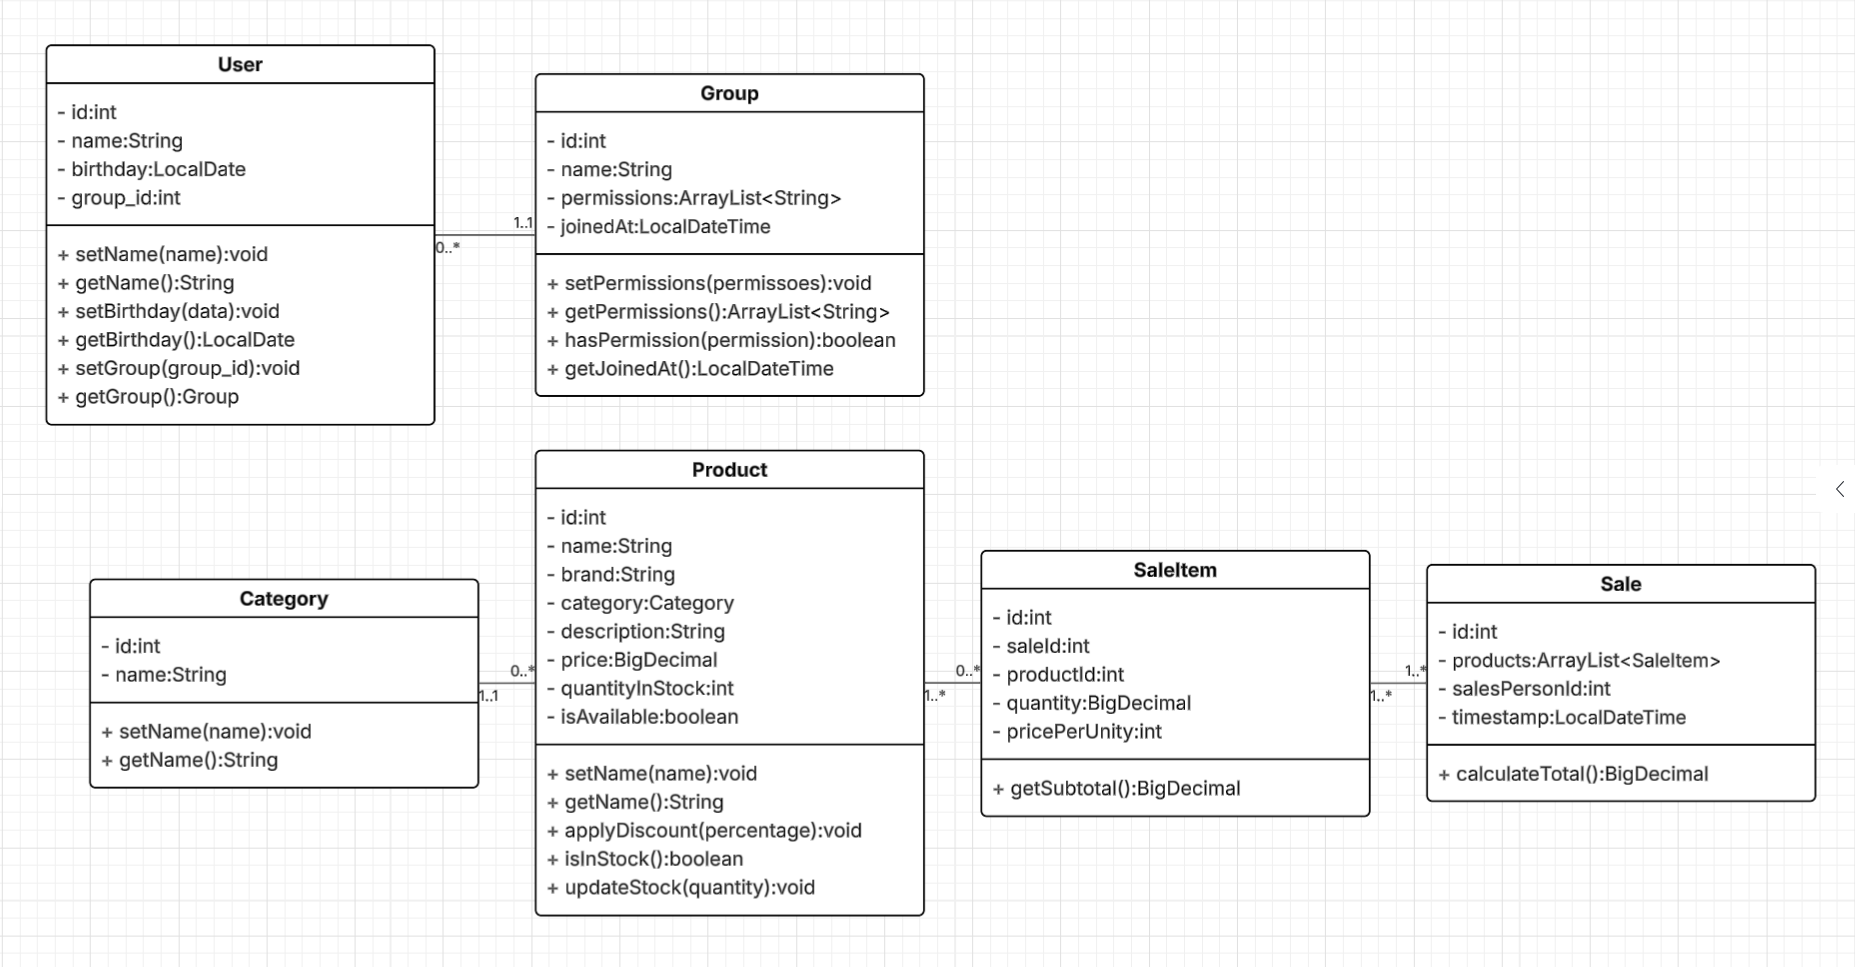
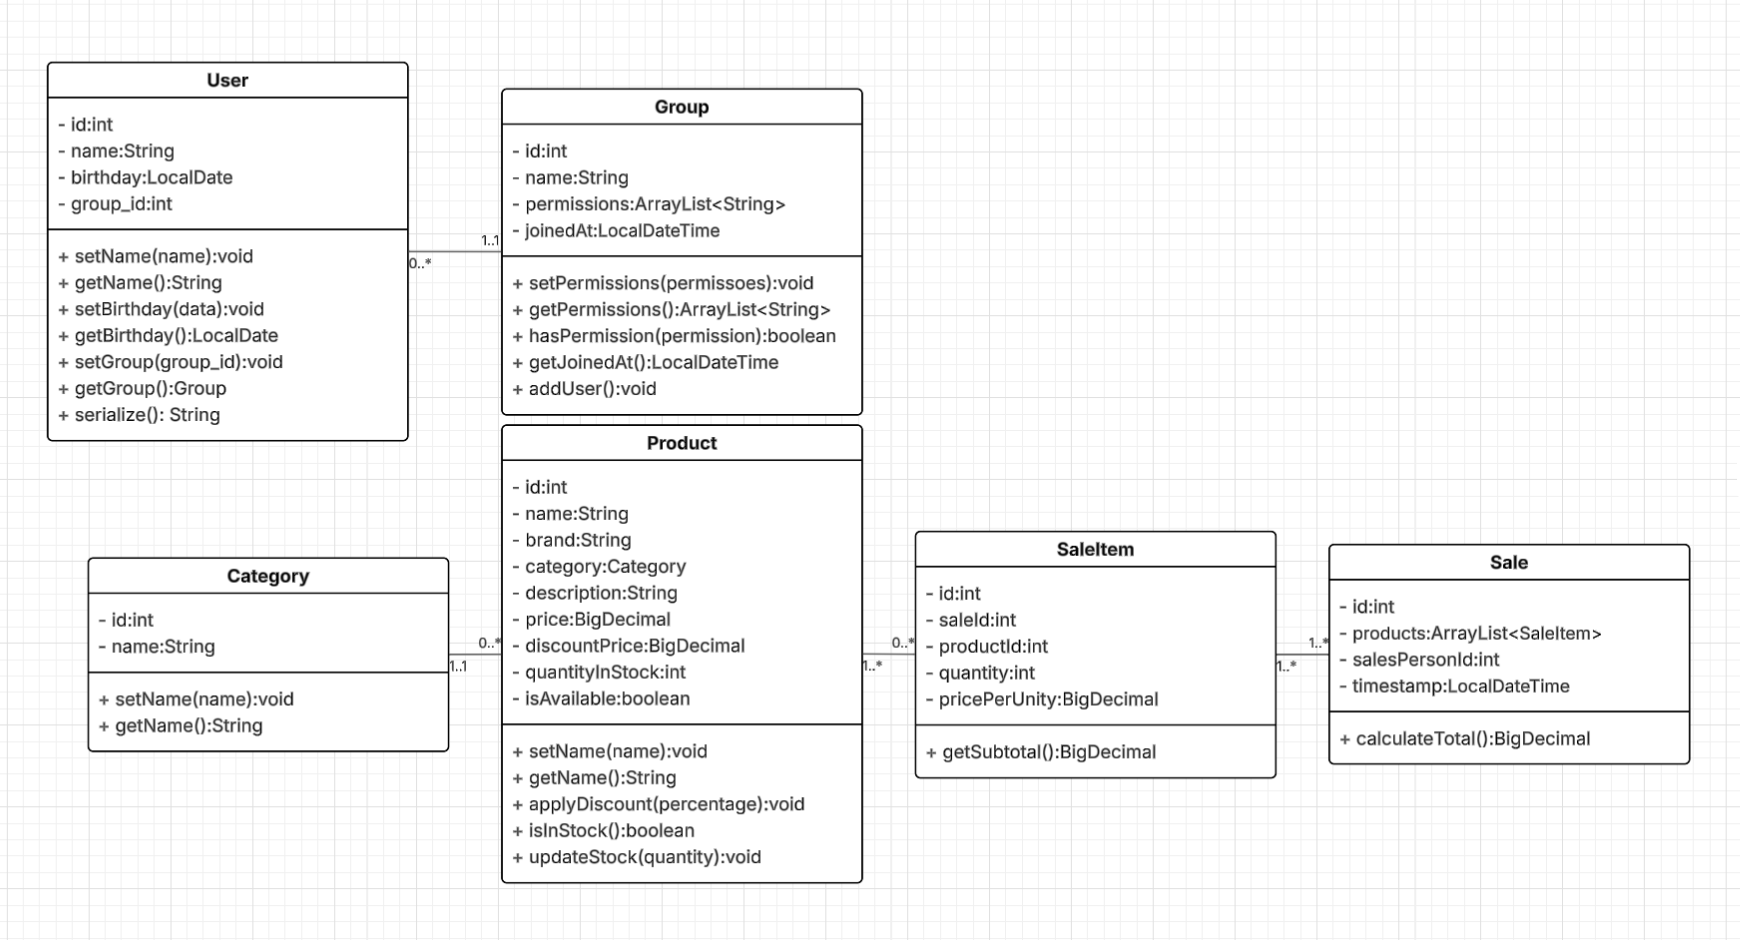
adding classes & updating readme img

Changed region(s): [[0.0, 0.0309, 0.9931, 0.9564]]

diff --git a/src/br/uepa/models/Product.java b/src/br/uepa/models/Product.java
@@ -1,0 +1,82 @@
+package br.uepa.models;
+
+import java.math.BigDecimal;
+
+public class Product {
+    private final int id;
+    private String name;
+    private String brand;
+    private Category category;
+    private String description;
+    private BigDecimal price;
+    private BigDecimal discountPrice;
+    private int quantityInStock;
+    private boolean isAvailable;
+
+    public Product(int id, String name, BigDecimal price) {
+        this.id = id;
+        this.name = name;
+        this.price = price;
+    }
+
+    public void applyDiscount(int percentage) {
+        BigDecimal discountPercent = BigDecimal.valueOf(percentage).divide(BigDecimal.valueOf(100));
+        this.discountPrice = price.multiply(discountPercent);
+    }
+
+    public String getName() {
+        return name;
+    }
+
+    public void setName(String name) {
+        this.name = name;
+    }
+
+    public String getBrand() {
+        return brand;
+    }
+
+    public void setBrand(String brand) {
+        this.brand = brand;
+    }
+
+    public Category getCategory() {
+        return category;
+    }
+
+    public void setCategory(Category category) {
+        this.category = category;
+    }
+
+    public String getDescription() {
+        return description;
+    }
+
+    public void setDescription(String description) {
+        this.description = description;
+    }
+
+    public BigDecimal getPrice() {
+        return price;
+    }
+
+    public void setPrice(BigDecimal price) {
+        this.price = price;
+    }
+
+    public int getQuantityInStock() {
+        return quantityInStock;
+    }
+
+    public void setQuantityInStock(int quantityInStock) {
+        this.quantityInStock = quantityInStock;
+    }
+
+    public boolean isAvailable() {
+        return isAvailable;
+    }
+
+    public void setAvailable(boolean available) {
+        isAvailable = available;
+    }
+}

diff --git a/src/br/uepa/models/User.java b/src/br/uepa/models/User.java
@@ -1,0 +1,47 @@
+package br.uepa.models;
+
+import com.google.gson.Gson;
+import java.time.LocalDate;
+
+public class User {
+    private final int id;
+    private String name;
+    private LocalDate birthday;
+    private int group_id;
+
+    public User(int id, String name, LocalDate birthday) {
+        this.id = id;
+        this.name = name;
+        this.birthday = birthday;
+    }
+
+    public String getName() {
+        return name;
+    }
+
+    public void setName(String name) {
+        this.name = name;
+    }
+
+    public LocalDate getBirthday() {
+        return birthday;
+    }
+
+    public void setBirthday(LocalDate birthday) {
+        this.birthday = birthday;
+    }
+
+    public int getGroup_id() {
+        return group_id;
+    }
+
+    public void setGroup_id(int group_id) {
+        this.group_id = group_id;
+    }
+
+    public String serialize() {
+        Gson gson = new Gson();
+        String json = gson.toJson(this);
+        return json;
+    }
+}

diff --git a/src/br/uepa/models/Group.java b/src/br/uepa/models/Group.java
@@ -1,0 +1,38 @@
+package br.uepa.models;
+
+import java.time.LocalDateTime;
+import java.util.ArrayList;
+
+public class Group {
+    private final int id;
+    private String name;
+    private ArrayList<String> permissions;
+    private LocalDateTime joinedAt;
+
+    public Group(int id, String name, ArrayList permissions) {
+        this.id = id;
+        this.name = name;
+        this.permissions = permissions;
+    }
+
+    public ArrayList getPermissions() {
+        return permissions;
+    }
+
+    public void setPermissions(ArrayList permissions) {
+        this.permissions = permissions;
+    }
+
+    public boolean hasPermission(String permission) {
+        return this.permissions.contains(permission);
+    }
+
+    public LocalDateTime getJoinedAt() {
+        return joinedAt;
+    }
+
+    public void addUser(User user) {
+        user.setGroup_id(this.id);
+        this.joinedAt = LocalDateTime.now();
+    }
+}

diff --git a/src/br/uepa/models/Sale.java b/src/br/uepa/models/Sale.java
@@ -1,0 +1,28 @@
+package br.uepa.models;
+
+import java.math.BigDecimal;
+import java.time.LocalDateTime;
+import java.util.ArrayList;
+
+public class Sale {
+    private final int id;
+    private ArrayList<SaleItem> products;
+    private int salesPersonId;
+    private LocalDateTime timestamp;
+
+    public Sale(int id, ArrayList<SaleItem> products, int salesPersonId) {
+        this.id = id;
+        this.products = products;
+        this.salesPersonId = salesPersonId;
+        this.timestamp = LocalDateTime.now();
+    }
+
+    public BigDecimal calculateTotal(ArrayList<SaleItem> saleItems) {
+        BigDecimal total = BigDecimal.ZERO;
+
+        for (SaleItem item : saleItems) {
+            total = total.add(item.getSubTotal());
+        }
+        return total;
+    }
+}

diff --git a/src/br/uepa/models/SaleItem.java b/src/br/uepa/models/SaleItem.java
@@ -1,0 +1,23 @@
+package br.uepa.models;
+
+import java.math.BigDecimal;
+
+public class SaleItem {
+    private final int id;
+    private final int saleId;
+    private int productId;
+    private int quantity;
+    private final BigDecimal pricePerUnity;
+
+    public SaleItem(int id, int saleId, int productId, int quantity, BigDecimal pricePerUnity) {
+        this.id = id;
+        this.saleId = saleId;
+        this.productId = productId;
+        this.quantity = quantity;
+        this.pricePerUnity = pricePerUnity;
+    }
+
+    public BigDecimal getSubTotal() {
+        return pricePerUnity.multiply(BigDecimal.valueOf(this.quantity));
+    }
+}

diff --git a/src/br/uepa/models/Category.java b/src/br/uepa/models/Category.java
@@ -1,0 +1,19 @@
+package br.uepa.models;
+
+public class Category {
+    private final int id;
+    private String name;
+
+    public Category(int id, String name) {
+        this.id = id;
+        this.name = name;
+    }
+
+    public String getName() {
+        return name;
+    }
+
+    public void setName(String name) {
+        this.name = name;
+    }
+}

diff --git a/src/Main.java b/src/Main.java
@@ -1,0 +1,5 @@
+public class Main {
+    public static void main(String[] args) {
+
+    }
+}
